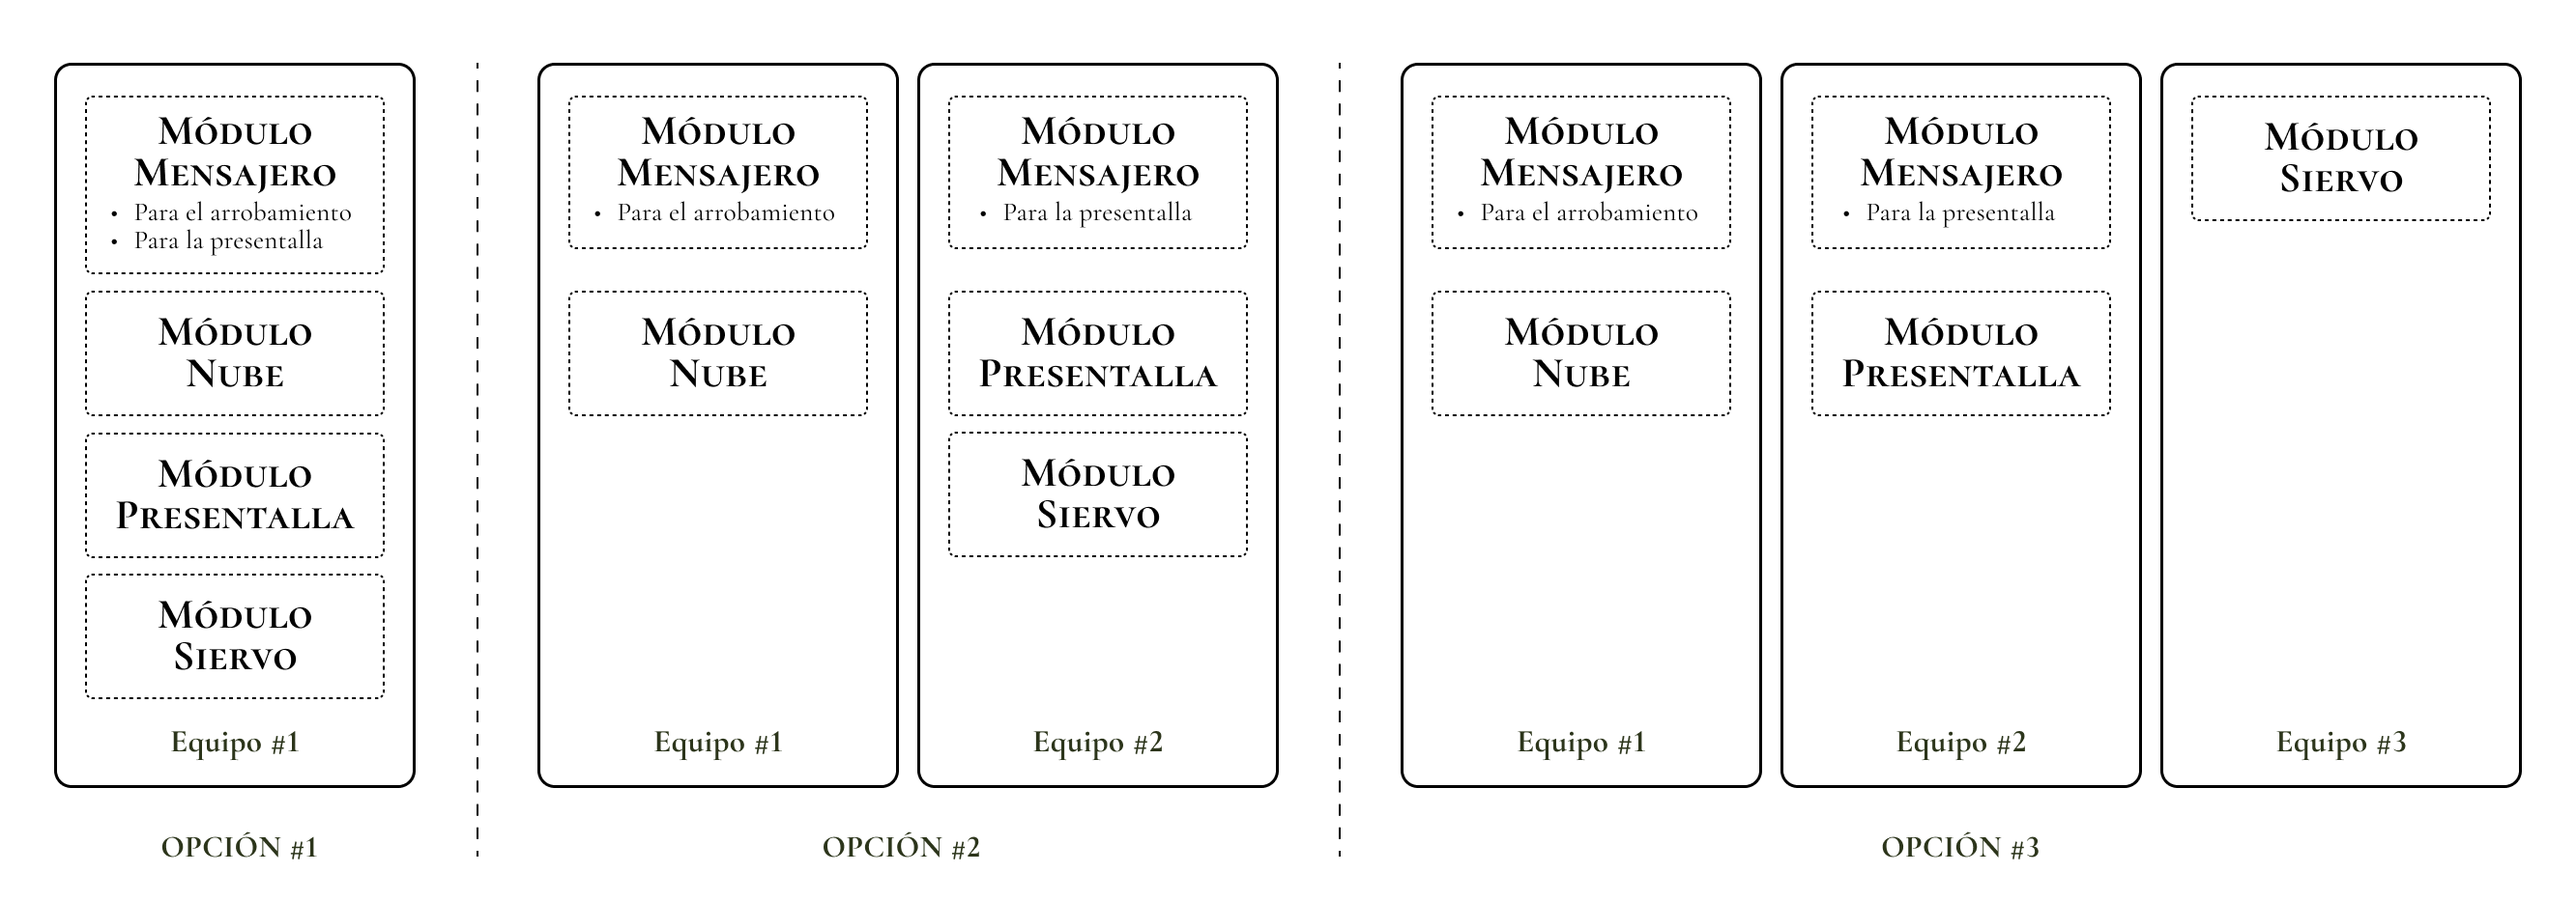
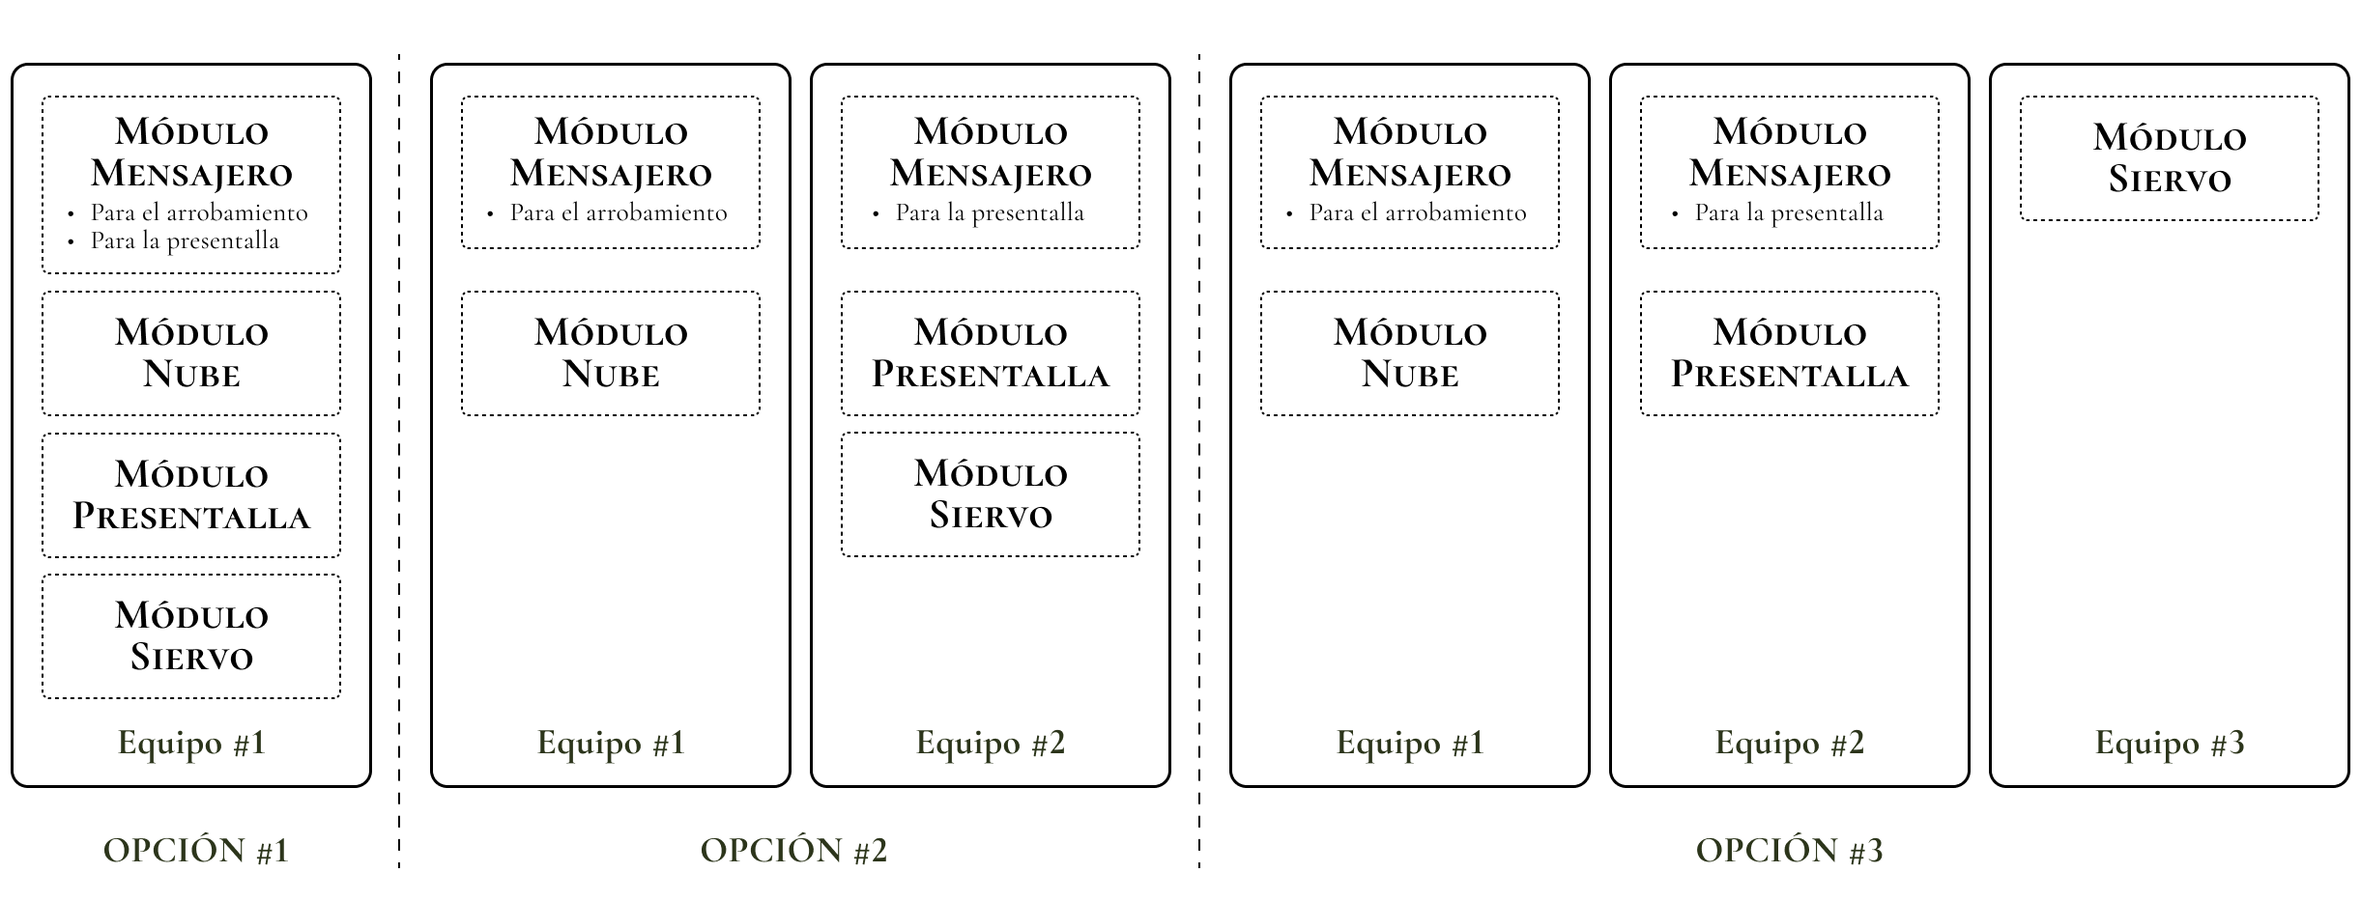
Actualización de los diagramas del archivo README

diff --git a/README.md b/README.md
@@ -10,7 +10,7 @@ Una breve ficción acerca del surgimiento del "Culto a la Obnubilación", plante
 # "La Obra"
 Según los "*Relatos apócrifos del Antropobsceno tardío*", en el principio existieron los "**Seguidores de la Orden del Silicio**" (S.O.S., por sus siglás en inglés), como una congregación de tecnoentusiastas de la región del *Silicon Valley* que abrazaron ciegamenete el poder divino de la tecnología como fuerza positiva propiciadora del progreso humano. Rápidamente pasaron de ser simples seguidores aficionados a convertirse en devotos fieles, al mismo tiempo que su optimismo inicial devino en un ferviente aceleracionismo que hizo resplandecer con mayor fuerza el aura sagrada de su tecnofanía. Las doctrinas tecnológicas se convirtieron en el canon global y la propia Orden fue renombrada como los “**Servidores de la Obra Solucionista**” (S.O.S), bajo la eufórica creencia de que era posible concebir al mundo en términos puramente computables. Es justo en este punto cuando la metáfora de “La Nube” deviene en dogma irrefutable, numen etéreo, objeto de fervorosa veneración y, al mismo tiempo, de obnubilación. **¡Seamos Todos Arrobados por la Nube!**
 
-![¡Seamos Todos Arrobados por la Nube](imagineria/SOS-seamos-arrobabos-por-la-nube.png)
+![¡Seamos Todos Arrobados por la Nube!](imagineria/SOS-seamos-arrobabos-por-la-nube.png)
 
 # Las Pantallas de la Obra
 "La Nube" es una **pantalla**: una metáfora infame ingeniada por el *Pensamiento Computacional* para encubrir una maquinaria colosal, pesada y contaminante detrás de una figura retórica celestial. El trabajo de "La Obra" es, justamente, una exaltación a la figura de la **pantalla** y a la obnubilación (obnubilar viene del latín *obnubilāre* y significa literalmente "tapar con la nube"). Tres pantallas distintas se enlanzan en una experiencia interactiva como parte del rito de adoración y el arrobamiento ante la figura de "La Nube".
@@ -19,12 +19,13 @@ Según los "*Relatos apócrifos del Antropobsceno tardío*", en el principio exi
 - **PANTALLA 2 - "El Siervo"**: pantalla táctil del celular de cada visitante, devenido en seguidor (y siervo) de "La Obra". Es una aplicación web para el móvil que, bajo la promesa de una recompensa inmediata, seduce al visitante a aventurarse en el acto del "*scroll* infinito" para entablar un vínculo de entrega y arrobamiento hacia "La Nube".
 - **PANTALLA 3 - "La Presentalla"**: pantalla digital encubierta de monitoreo y recolección de las ofrendas digitales que los propios siervos de "La Obra" entregan desinteresadamente (o involuntariamente) a "La Nube" como acto de sagrada renuncia.
 
-
 # La Canalización Divina
 La comunicación inmediata entre las pantallas (páginas web) ocurre mediante el intercambio de mensajes OSC (*Open Sound Control*) basado, a su vez, en el protocolo UDP (*User Datagram Protocol*) y que tienen lugar gracias a la intervención mediadora de dos "*Web Sockets*" que permiten, por un lado, la interacción entre el seguidor/siervo y su objeto de veneración ("La Nube") y, por otro lado, la recaudación encubierta de los datos personales del celular como ofrendas digitales incondicionales.
 
 - **WEB SOCKET 1 - "El Arrobamiento" (puerto 8081)**: responsable del vínculo directo entre "La Nube" y el seguidor/siervo, invitándolo a hacer "*scroll* infinito" en su pantalla como acto de obnubilación y arrobamiento celestial.
 - **WEB SOCKET 2 - "La Presentalla" (puerto 8091)**: responsable de extraer, recolectar y analizar furtivamente los datos del celular del seguidor/siervo (sus ofrendas digitales) para procesarlos y presentarlos en la pantalla de la "Presentalla" como evidencia del acto de renuncia y entrega divina.
+
+![Diagrama de "La Obra"](imagineria/SOS-la-obra.png)
 
 # Detalles de la Tecnofanía
 "La Obra" está constituida por cuatro módulos: tres pantallas y un módulo responsable de la conexión (mediante *web sockets*) y de la mensajería inter-pantalla (a través del protocolo OSC) que, por un lado, estimula el "arrobamiento" de los seguidores durante su veneración a "La Nube" y, por otro lado, encubre el acto de extracción sus "ofrendas digitales".
@@ -48,14 +49,13 @@ $ git clone https://github.com/gastimo/sos.git [nombre_carpeta]
 
 La instalación de los módulos requeridos para la ceremonia de "La Obra" puede tener lugar en un único equipo, en dos (recomendado) o, incluso, en tres, disponiendo los módulos según se explica en el diagrama a continuación:
 
-![¡Configuración de equipos para la instalación de "La Obra"](imagineria/SOS-configracion-equipos.png)
+![Configuración de equipos para la instalación de "La Obra"](imagineria/SOS-configracion-equipos.png)
 
-> **Nota 1**: Para la efectiva comunicación inter-pantalla es menester que, en caso de realizar una instalación en múltiples equipos, los conectores del **MÓDULO MENSAJERO** sean desboblados e instalados por separado según corresponda.
->
-> **Nota 2**: El módulo del "El Siervo" puede ser instalado e iniciado indistintamente en cualquiera de los equipos.
->
+- **OPCIÓN #1 (1 equipo)**: los cuatro módulos que conforman “La Obra” se instalan juntos en el mismo equipo que debería ser capaz de conectar dos pantallas diferentes: una para "La Nube" y otra para "La Presentalla".
+- **OPCIÓN #2 (2 equipos)**: los módulos se reparten en dos equipos separados: uno para el “Módulo Nube” y otro para el “Módulo Presentalla”. El “Módulo Siervo” puede instalarse en cualquier de los dos equipos indistintamente. El “Módulo Mensajero” se desdobla para instalar sus web sockets separadamente según corresponda. Cada uno de los equipos va conectado a una pantalla (una para "La Nube" y otra para "La Presentalla").
+- **OPCIÓN #3 (3 equipos)**: la instalación de los módulos se reparte en tres equipos diferentes: uno para el “Módulo Nube”, otro para el “Módulo Presentalla” y un tercero para el “Módulo Siervo”. El “Módulo Mensajero” se desdobla para instalar sus web sockets separadamente según corresponda. Tanto el equipo donde se instale el “Módulo Nube” como el del “Módulo Presentalla” deben permitir conectar una pantalla o proyector.
 
-Para instalar los paquetes y las dependencias de los módulos de "La Obra", moverse dentro de cada subcarpeta y ejecutar el comando `npm i` en cada una de ellas. En caso de realizar una instalación en múltiples equipos, sólo es necesario instalar en cada uno de ellos los módulos que se vayan a utilizar.
+Para instalar los paquetes y las dependencias de los módulos de "La Obra", moverse dentro de cada subcarpeta y ejecutar el comando `npm i` en cada una de ellas. En caso de realizar una instalación en múltiples equipos, sólo es necesario instalar en cada uno de ellos los módulos que se vayan a utilizar únicamente.
 ```sh
 $ cd [nombre_carpeta]
 $ cd sos.nube
@@ -70,7 +70,7 @@ $ cd ..
 ```
 
 ## Iniciación de "La Obra"
-Para levantar todos los servicios y que el ritual de "La Obra" quede en funcionamiento, se utiliza el comando `npm start` ejecutado dentro de las subcarpetas de cada módulo y teniendo en cuenta la configuracióń de los equipos realizada. A continuación se ilustra la manera de iniciar "La Obra" para una configuración en dos equipos.
+Para levantar todos los servicios y que el ritual de "La Obra" quede en funcionamiento, se utilizan comandos `npm` ejecutados dentro de las subcarpetas de cada módulo y teniendo en cuenta la configuracióń de los equipos realizada. A continuación, y a modo de ejemplo, se ilustra la manera de iniciar "La Obra" para una configuración en dos equipos.
 
 ### Iniciación de los Componentes en el "Equipo #1"
 ```sh
@@ -82,7 +82,7 @@ $ cd ../sos.siervo
 $ npm start
 $ cd ..
 ```
-
+ 
 ### Iniciación de los Componentes en el "Equipo #2"
 ```sh
 $ cd sos.mensajero
@@ -91,8 +91,7 @@ $ cd ../sos.presentalla
 $ npm start
 $ cd ..
 ```
-
-> **Nota**: en cada una de las computadoras es importante que el **MÓDULO MENSAJERO** sea iniciado siempre en primer lugar, antes que los módulos de las pantallas correspondientes.
->
+> **Nota**: en necesario iniciar siempre el MÓDULO MENSAJERO que inicializa los *web sockets* en cada equipo antes de iniciar los módulos de las pantallas correspondientes.
 
 
+![¡Seamos Todos Arrobados por la Nube!](imagineria/SOS-nube-separador.png)
